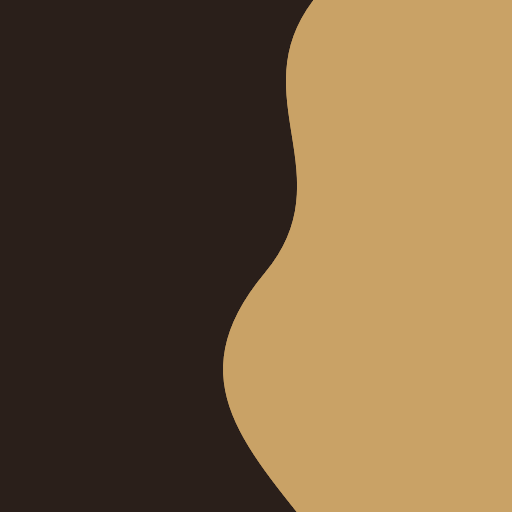
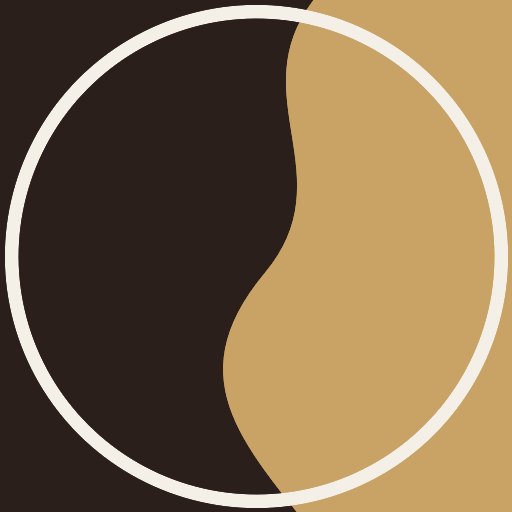
fix(marca): auditoria visual — símbolo com contorno no escuro, datas por extenso
- símbolo com contorno Espuma no topo escuro do site e no avatar (Rio Negro sumia: 1:1)
- datas em português no site (dia, fichas, temas, arquivo)
- títulos-link sem sublinhado pesado, foco visível, linha de leitura mais curta
- guia da marca: versão com contorno, regra de datas, resultado do contraste

Changed region(s): [[0.0, 0.0, 1.0, 1.0]]

diff --git a/politik/site/estilo.css b/politik/site/estilo.css
@@ -14,7 +14,7 @@
 }
 * { box-sizing: border-box; }
 body { margin: 0; background: var(--fundo); color: var(--texto); font: 17px/1.55 var(--corpo); }
-header, main, footer { max-width: 680px; margin: 0 auto; padding-left: max(16px, env(safe-area-inset-left, 0px)); padding-right: max(16px, env(safe-area-inset-right, 0px)); }
+header, main, footer { max-width: 640px; margin: 0 auto; padding-left: max(16px, env(safe-area-inset-left, 0px)); padding-right: max(16px, env(safe-area-inset-right, 0px)); }
 .topo { background: var(--topo); color: var(--topo-texto); }
 header { display: flex; flex-wrap: wrap; gap: 4px 12px; align-items: center; padding-block: 14px; }
 .marca { display: flex; align-items: center; gap: 10px; color: inherit; text-decoration: none; }
@@ -23,7 +23,10 @@ header { display: flex; flex-wrap: wrap; gap: 4px 12px; align-items: center; pad
 .slogan { font-size: .85rem; opacity: .8; }
 header nav { margin-left: auto; }
 header nav a { color: inherit; font-size: .9rem; }
-a { color: var(--destaque); }
+a { color: var(--destaque); text-underline-offset: .15em; text-decoration-thickness: 1px; }
+h1 a, h2 a, h3 a { text-decoration: none; }
+h1 a:hover, h2 a:hover, h3 a:hover, h1 a:focus-visible, h2 a:focus-visible, h3 a:focus-visible { text-decoration: underline; }
+a:focus-visible { outline: 2px solid var(--solimoes); outline-offset: 2px; border-radius: 2px; }
 h1, h2, h3 { font-family: var(--titulo); text-wrap: balance; }
 h1 { font-size: 1.5rem; line-height: 1.25; }
 h2 { font-size: 1.1rem; margin-top: 1.6em; }

diff --git a/politik/site/templates/tema.html b/politik/site/templates/tema.html
@@ -2,14 +2,14 @@
 {% block titulo %}{{ t.nome }} — Politik{% endblock %}
 {% block conteudo %}
 <p><span class="etiqueta">{{ "Em andamento" if t.ativo else "Sem novidades há mais de 30 dias" }}</span>
-<span class="etiqueta">desde {{ t.inicio }}</span></p>
+<span class="etiqueta">desde {{ t.inicio | data_br(curta=True) }}</span></p>
 <h1>{{ t.nome }}</h1>
 <p><em>Resumo até aqui:</em> {{ t.resumo_ate_aqui }}</p>
 <h2 id="do-zero">❓ Me explica do zero</h2>
 {% for par in t.explica_do_zero.split("\n") if par.strip() %}<p>{{ par }}</p>{% endfor %}
 <h2 id="linha-do-tempo">🕒 Linha do tempo</h2>
 <ol class="linha">{% for f in t.linha_do_tempo | reverse %}
-<li><strong>{{ f.data }}</strong> — {{ f.fato }}{% if f.fonte_unica %} <span class="aviso">(fonte única)</span>{% endif %}
+<li><strong>{{ f.data | data_br(curta=True) }}</strong> — {{ f.fato }}{% if f.fonte_unica %} <span class="aviso">(fonte única)</span>{% endif %}
 <br><small>{% for fo in f.fontes %}<a href="{{ fo.url | seguro }}">{{ fo.nome }}</a>{% if not loop.last %} · {% endif %}{% endfor %}</small></li>
 {% endfor %}</ol>
 {% if fichas %}<h2>Documentos oficiais ligados</h2>

diff --git a/politik/site/templates/menores.html b/politik/site/templates/menores.html
@@ -1,7 +1,7 @@
 {% extends "base.html" %}
-{% block titulo %}Itens menores — {{ d }}{% endblock %}
+{% block titulo %}Itens menores — {{ d | data_br(curta=True) }}{% endblock %}
 {% block conteudo %}
-<h1>Itens menores de {{ d }}</h1>
+<h1>Itens menores de {{ d | data_br }}</h1>
 <p class="discreto">Requerimentos, homenagens, pareceres, atos de rotina e notícias que não entraram no resumo. Textos originais, sem tradução.</p>
 <ul>{% for i in menores %}<li><a href="{{ i.url | seguro }}">{{ i.titulo }}</a> <span class="etiqueta">{{ i.fonte }}</span><br><small>{{ i.ementa }}</small></li>{% endfor %}</ul>
 {% endblock %}

diff --git a/politik/site/templates/ficha.html b/politik/site/templates/ficha.html
@@ -13,5 +13,5 @@
 <ul>{% for fo in f.fontes %}<li><a href="{{ fo.url | seguro }}">{{ fo.nome }}</a></li>{% endfor %}
 {% if ":votacao:" in f.item_id %}<li><a href="{{ f.fontes[0].url | seguro }}">🗳 Como votaram</a></li>{% endif %}</ul>
 {% if f.temas %}<p>Temas: {% for s in f.temas %}{% if temas.get(s) %}<a href="{{ url_tema(s) }}">{{ temas[s].nome }}</a>{% if not loop.last %}, {% endif %}{% endif %}{% endfor %}</p>{% endif %}
-<p class="discreto">Publicado no Politik em {{ f.data }}.</p>
+<p class="discreto">Publicado no Politik em {{ f.data | data_br(curta=True) }}.</p>
 {% endblock %}

diff --git a/politik/site/templates/arquivo.html b/politik/site/templates/arquivo.html
@@ -5,5 +5,5 @@
 <h2>Temas</h2>
 <ul>{% for slug, t in temas.items() %}<li><a href="{{ url_tema(slug) }}">{{ t.nome }}</a>{% if not t.ativo %} <span class="discreto">(inativo)</span>{% endif %}</li>{% else %}<li>Nenhum tema ainda.</li>{% endfor %}</ul>
 <h2>Dias</h2>
-<ul>{% for d in dias %}<li><a href="{{ url_dia(d) }}">{{ d }}</a></li>{% else %}<li>Nenhum dia ainda.</li>{% endfor %}</ul>
+<ul>{% for d in dias %}<li><a href="{{ url_dia(d) }}">{{ d | data_br }}</a></li>{% else %}<li>Nenhum dia ainda.</li>{% endfor %}</ul>
 {% endblock %}

diff --git a/politik/site/templates/base.html b/politik/site/templates/base.html
@@ -11,7 +11,7 @@
 </head>
 <body>
 <div class="topo"><header>
-  <a class="marca" href="{{ base }}/index.html"><img src="{{ base }}/favicon.svg" alt=""><b>politik</b></a>
+  <a class="marca" href="{{ base }}/index.html"><img src="{{ base }}/simbolo-contorno.svg" alt=""><b>politik</b></a>
   <span class="slogan">Os fatos lado a lado.</span>
   <nav><a href="{{ base }}/arquivo.html">Arquivo</a></nav>
 </header></div>

diff --git a/politik/site/templates/dia.html b/politik/site/templates/dia.html
@@ -1,7 +1,7 @@
 {% extends "base.html" %}
-{% block titulo %}Politik — {{ d }}{% endblock %}
+{% block titulo %}Politik — {{ d | data_br(curta=True) }}{% endblock %}
 {% block conteudo %}
-<h1>{{ d }}</h1>
+<h1>{{ d | data_br }}</h1>
 {% for f in sel.fontes_indisponiveis %}<p class="aviso">⚠ {{ f | nome_fonte }} indisponível hoje.</p>{% endfor %}
 {% if diario.temas %}
 <h2>🔥 Temas em andamento</h2>

diff --git a/politik/site/gerador.py b/politik/site/gerador.py
@@ -1,4 +1,5 @@
 import shutil
+from datetime import date
 from pathlib import Path
 
 from jinja2 import Environment, PackageLoader, select_autoescape
@@ -15,6 +16,34 @@ NOMES_FONTES = {
     "imprensa": "Imprensa",
     "tramitacao": "Tramitações",
 }
+
+
+DIAS_SEMANA = ["segunda-feira", "terça-feira", "quarta-feira", "quinta-feira", "sexta-feira", "sábado", "domingo"]
+MESES = [
+    "janeiro",
+    "fevereiro",
+    "março",
+    "abril",
+    "maio",
+    "junho",
+    "julho",
+    "agosto",
+    "setembro",
+    "outubro",
+    "novembro",
+    "dezembro",
+]
+
+
+def data_br(iso: str, curta: bool = False) -> str:
+    """'2026-10-28' → 'quarta-feira, 28 de outubro de 2026' (ou '28/10/2026' com curta=True)."""
+    try:
+        d = date.fromisoformat(str(iso)[:10])
+    except ValueError:
+        return str(iso)
+    if curta:
+        return d.strftime("%d/%m/%Y")
+    return f"{DIAS_SEMANA[d.weekday()]}, {d.day} de {MESES[d.month - 1]} de {d.year}"
 
 
 def link_seguro(url: str | None) -> str:
@@ -63,6 +92,7 @@ def gerar(saida: Path, base_url: str) -> None:
         niveis=NIVEIS,
     )
     env.filters["seguro"] = link_seguro
+    env.filters["data_br"] = data_br
     env.filters["nome_fonte"] = lambda f: NOMES_FONTES.get(f, f)
 
     def escrever(rel: str, tpl: str, **ctx):
@@ -71,7 +101,7 @@ def gerar(saida: Path, base_url: str) -> None:
         destino.write_text(env.get_template(tpl).render(**ctx), encoding="utf-8")
 
     saida.mkdir(parents=True, exist_ok=True)
-    for estatico in ("estilo.css", "favicon.svg"):
+    for estatico in ("estilo.css", "favicon.svg", "simbolo-contorno.svg"):
         shutil.copy(Path(__file__).parent / estatico, saida / estatico)
 
     for iid, f in fichas.items():

diff --git a/tests/test_marca.py b/tests/test_marca.py
@@ -28,3 +28,26 @@ def test_site_usa_a_marca(tmp_data, tmp_path):
     css = (tmp_path / "estilo.css").read_text()
     assert "--rio-negro: #2a1f1a" in css and "--solimoes: #c9a266" in css
     assert "Bricolage Grotesque" in css and "Source Sans 3" in css
+
+
+def test_simbolo_para_fundo_escuro_tem_contorno_claro():
+    svg = Path("marca/simbolo-contorno.svg").read_text()
+    assert 'stroke="#f4efe7"' in svg
+    assert Path("politik/site/simbolo-contorno.svg").read_text() == svg
+
+
+def test_topo_escuro_usa_simbolo_com_contorno(tmp_data, tmp_path):
+    escrever_json(tmp_data / f"diario/{D}.json", {"data": D, "temas": [], "fichas": []})
+    gerar(tmp_path, "https://x")
+    assert 'src="https://x/simbolo-contorno.svg"' in (tmp_path / "index.html").read_text()
+    assert (tmp_path / "simbolo-contorno.svg").exists()
+
+
+def test_datas_por_extenso(tmp_data, tmp_path):
+    from politik.site.gerador import data_br
+
+    assert data_br("2026-10-28") == "quarta-feira, 28 de outubro de 2026"
+    assert data_br("2026-10-28", curta=True) == "28/10/2026"
+    escrever_json(tmp_data / f"diario/{D}.json", {"data": D, "temas": [], "fichas": []})
+    gerar(tmp_path, "https://x")
+    assert "quarta-feira, 28 de outubro de 2026" in (tmp_path / "index.html").read_text()

diff --git a/marca/README.md b/marca/README.md
@@ -11,9 +11,10 @@ sem se misturar. O símbolo do Politik mostra exatamente isso: duas águas, cada
 | Arquivo | Uso |
 |---|---|
 | `simbolo.svg` | Símbolo sozinho (círculo). Também é o favicon do site (`politik/site/favicon.svg`, cópia idêntica). |
+| `simbolo-contorno.svg` | Símbolo com contorno Espuma, **obrigatório sobre fundo escuro** (topo do site, modo escuro, posts escuros): sem ele a metade Rio Negro some no fundo. |
 | `logo.svg` | Símbolo + nome + slogan, na horizontal. Cabeçalhos, documentos, apresentações. |
 | `marca-dagua.svg` | Marca d'água para posts e imagens: símbolo pequeno + "politik · os fatos lado a lado". Herda a cor do texto. |
-| `avatar-512.png` | Foto do bot do Telegram e perfis (quadrado; as redes recortam em círculo). |
+| `avatar-512.png` | Foto do bot do Telegram e perfis (quadrado; as redes recortam em círculo). Já traz o contorno claro, para não sumir no tema escuro do app. |
 
 ## Cores
 
@@ -40,3 +41,10 @@ Ambas gratuitas, no Google Fonts.
 - Marca d'água: canto inferior, pequena, com 85% de opacidade. Nunca sobre o rosto de uma pessoa ou sobre o texto principal.
 - Espaço livre ao redor do símbolo: no mínimo metade do diâmetro dele.
 - Tamanho mínimo do símbolo: 16 px (favicon).
+- Datas para leitura sempre em português ("quarta-feira, 28 de outubro de 2026" ou "28/10/2026"), nunca no formato técnico 2026-10-28.
+
+## Acessibilidade (auditada em 30/10/2026)
+
+Todos os pares de texto e fundo do site passam no WCAG AA (≥ 4,5:1) nos temas claro e escuro;
+o menor é o texto das etiquetas, com 4,8:1. O símbolo puro sobre fundo escuro tinha 1:1 na metade Rio Negro,
+e por isso existe a versão com contorno.
